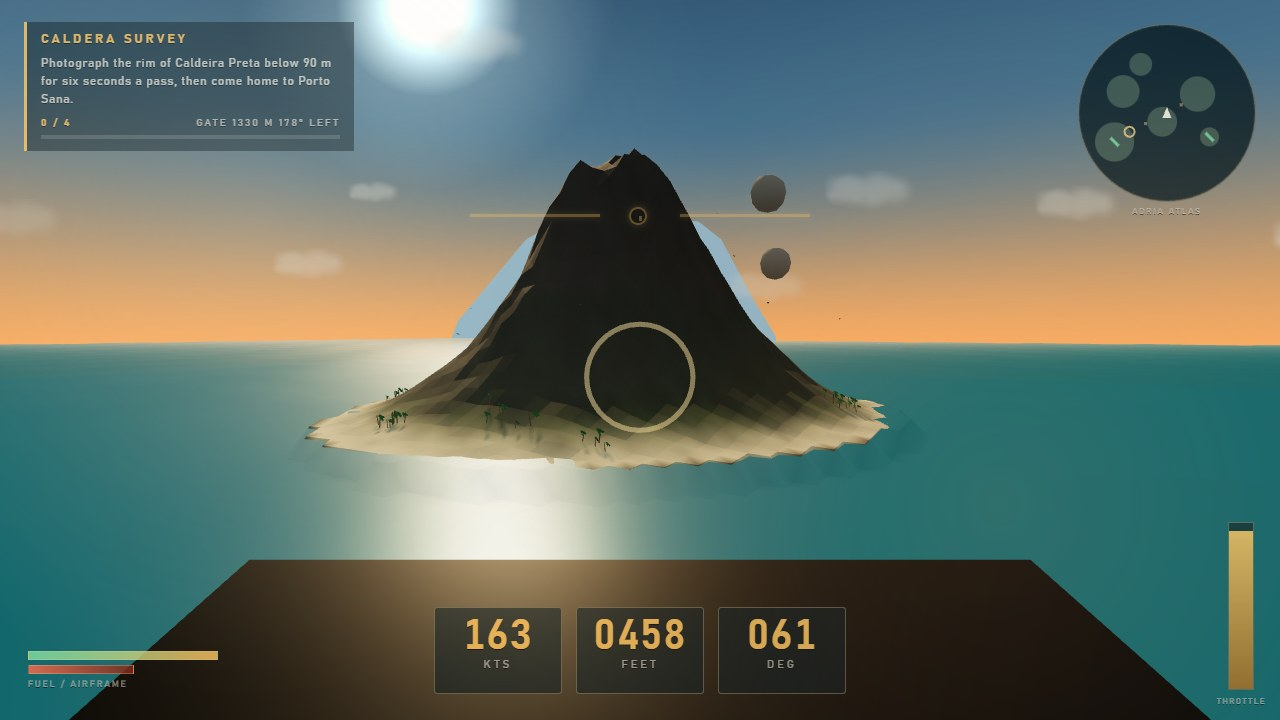
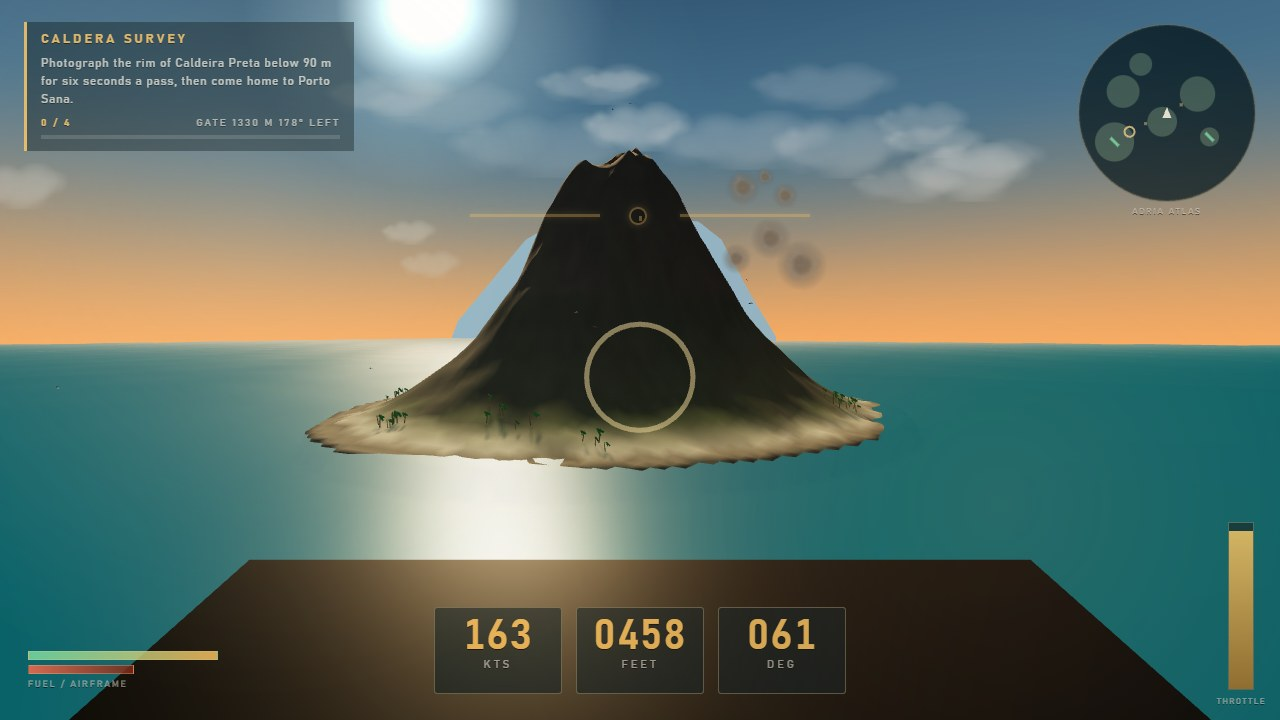
Golden-hour sea glitter, volcano cloud bank, soft flak smoke, cleaner coastline

diff --git a/game/src/game/threat.js b/game/src/game/threat.js
@@ -1,15 +1,54 @@
 // Ridge flak: puff bursts bloom ahead of the nose over the volcano and cost hull if they land close.
+// Puffs are soft billboards, so a burst reads as smoke rather than as a grey ball.
 
 import * as THREE from 'three';
-import { PLAY } from '../config.js';
 import { groundAt } from '../terrain/heightfield.js';
 
-const PUFF_MAT = new THREE.MeshStandardMaterial({ color: '#7b7369', emissive: '#2d2822', emissiveIntensity: 0.6, roughness: 1, transparent: true, opacity: 0.9 });
-const PUFF_GEO = new THREE.SphereGeometry(1, 8, 6);
+function smokeTexture() {
+  const canvas = document.createElement('canvas');
+  canvas.width = 128;
+  canvas.height = 128;
+  const ctx = canvas.getContext('2d');
+  const gradient = ctx.createRadialGradient(64, 64, 6, 64, 64, 62);
+  gradient.addColorStop(0, 'rgba(122,114,104,0.95)');
+  gradient.addColorStop(0.45, 'rgba(112,104,95,0.62)');
+  gradient.addColorStop(1, 'rgba(96,90,82,0)');
+  ctx.fillStyle = gradient;
+  ctx.fillRect(0, 0, 128, 128);
+  // A few lobes so each puff is ragged, not a clean disc.
+  for (let i = 0; i < 7; i++) {
+    const x = 30 + Math.random() * 68;
+    const y = 30 + Math.random() * 68;
+    const r = 12 + Math.random() * 22;
+    const lobe = ctx.createRadialGradient(x, y, 2, x, y, r);
+    lobe.addColorStop(0, 'rgba(126,118,108,0.5)');
+    lobe.addColorStop(1, 'rgba(110,102,93,0)');
+    ctx.fillStyle = lobe;
+    ctx.beginPath();
+    ctx.arc(x, y, r, 0, Math.PI * 2);
+    ctx.fill();
+  }
+  const tex = new THREE.CanvasTexture(canvas);
+  tex.colorSpace = THREE.SRGBColorSpace;
+  return tex;
+}
 
 export function createThreat(scene) {
   const puffs = [];
+  const texture = smokeTexture();
   let timer = 0;
+
+  function spawn(position, scale) {
+    const sprite = new THREE.Sprite(new THREE.SpriteMaterial({ map: texture, transparent: true, depthWrite: false, opacity: 0.85 }));
+    sprite.position.copy(position);
+    sprite.scale.setScalar(scale * 2.6);
+    // A tighter, brighter core so the burst has a dense heart instead of reading as a smudge.
+    const core = new THREE.Sprite(new THREE.SpriteMaterial({ map: texture, transparent: true, depthWrite: false, opacity: 0.9, color: '#e8e2d6' }));
+    core.position.copy(position);
+    core.scale.setScalar(scale * 1.15);
+    scene.add(sprite, core);
+    puffs.push({ sprite, core, life: 0, scale });
+  }
 
   return {
     puffs,
@@ -18,13 +57,16 @@ export function createThreat(scene) {
       for (let i = puffs.length - 1; i >= 0; i--) {
         const puff = puffs[i];
         puff.life += dt;
-        puff.scale += dt * 26;
-        puff.mesh.scale.setScalar(puff.scale);
-        puff.mesh.position.y += dt * 3.4;
-        puff.mesh.material.opacity = Math.max(0, 0.85 - puff.life * 0.42);
+        puff.scale += dt * 24;
+        puff.sprite.scale.setScalar(puff.scale * 2.6);
+        puff.core.scale.setScalar(puff.scale * 1.15);
+        puff.sprite.position.y += dt * 3.4;
+        puff.sprite.material.opacity = Math.max(0, 0.85 - puff.life * 0.4);
+        puff.core.material.opacity = Math.max(0, 0.9 - puff.life * 0.44);
         if (puff.life > 2.4) {
-          scene.remove(puff.mesh);
-          puff.mesh.material.dispose();
+          scene.remove(puff.sprite, puff.core);
+          puff.sprite.material.dispose();
+          puff.core.material.dispose();
           puffs.splice(i, 1);
         }
       }
@@ -38,11 +80,13 @@ export function createThreat(scene) {
       const ahead = plane.position.clone().addScaledVector(forward, 260 + Math.random() * 220);
       ahead.y = Math.max(groundAt(ahead.x, ahead.z) + 30, ahead.y + (Math.random() - 0.5) * 120);
 
-      const mesh = new THREE.Mesh(PUFF_GEO, PUFF_MAT.clone());
-      mesh.position.copy(ahead);
-      scene.add(mesh);
-      const puff = { mesh, life: 0, scale: 3 };
-      puffs.push(puff);
+      for (let i = 0; i < 3; i++) {
+        const lobe = ahead.clone();
+        lobe.x += (Math.random() - 0.5) * 40;
+        lobe.y += (Math.random() - 0.5) * 26;
+        lobe.z += (Math.random() - 0.5) * 40;
+        spawn(lobe, 5 + Math.random() * 5);
+      }
 
       const distance = ahead.distanceTo(plane.position);
       if (distance < 46) return 6;
@@ -50,14 +94,10 @@ export function createThreat(scene) {
     },
     // Drop one burst at a world point (used by the screenshot poses).
     place(position, scale = 3) {
-      const mesh = new THREE.Mesh(PUFF_GEO, PUFF_MAT.clone());
-      mesh.position.copy(position);
-      mesh.scale.setScalar(scale);
-      scene.add(mesh);
-      puffs.push({ mesh, life: 0, scale });
+      spawn(position, scale);
     },
     reset() {
-      for (const puff of puffs) scene.remove(puff.mesh);
+      for (const puff of puffs) scene.remove(puff.sprite, puff.core);
       puffs.length = 0;
     },
   };

diff --git a/game/src/render/scene.js b/game/src/render/scene.js
@@ -2,6 +2,7 @@
 
 import * as THREE from 'three';
 import { WORLD, CAMERA } from '../config.js';
+import { ISLANDS } from '../terrain/heightfield.js';
 
 export function createRenderer(canvas) {
   const renderer = new THREE.WebGLRenderer({ canvas, antialias: true, powerPreference: 'high-performance', preserveDrawingBuffer: true });
@@ -88,6 +89,8 @@ function sunSprite(inner, outer, size) {
   return sprite;
 }
 
+const VOLCANO = ISLANDS.find((island) => island.volcano) ?? { x: 0, z: 0 };
+
 export function buildSky(scene) {
   scene.add(skyDome());
 
@@ -116,6 +119,39 @@ export function buildSky(scene) {
   glow.position.copy(disc.position).multiplyScalar(0.998);
   scene.add(glow);
 
+  // Sun glitter: a long additive streak on the water, running from the middle of the
+  // archipelago out under the sun, so the sea carries a path of light instead of a flat tint.
+  const glitterCanvas = document.createElement('canvas');
+  glitterCanvas.width = 128;
+  glitterCanvas.height = 1024;
+  const gctx = glitterCanvas.getContext('2d');
+  const across = gctx.createLinearGradient(0, 0, 128, 0);
+  across.addColorStop(0, 'rgba(255,236,200,0)');
+  across.addColorStop(0.5, 'rgba(255,243,214,0.85)');
+  across.addColorStop(1, 'rgba(255,236,200,0)');
+  const along = gctx.createLinearGradient(0, 0, 0, 1024);
+  gctx.fillStyle = across;
+  gctx.fillRect(0, 0, 128, 1024);
+  gctx.globalCompositeOperation = 'destination-in';
+  along.addColorStop(0, 'rgba(0,0,0,0)');
+  along.addColorStop(0.16, 'rgba(0,0,0,0.55)');
+  along.addColorStop(0.55, 'rgba(0,0,0,0.95)');
+  along.addColorStop(0.86, 'rgba(0,0,0,0.5)');
+  along.addColorStop(1, 'rgba(0,0,0,0)');
+  gctx.fillStyle = along;
+  gctx.fillRect(0, 0, 128, 1024);
+  const glitterTex = new THREE.CanvasTexture(glitterCanvas);
+  glitterTex.colorSpace = THREE.SRGBColorSpace;
+  const glitter = new THREE.Mesh(
+    new THREE.PlaneGeometry(430, 9600),
+    new THREE.MeshBasicMaterial({ map: glitterTex, transparent: true, depthWrite: false, blending: THREE.AdditiveBlending, opacity: 0.42, fog: true })
+  );
+  const azimuth = Math.atan2(sun.position.x, sun.position.z);
+  glitter.rotation.set(-Math.PI / 2, 0, 0);
+  glitter.rotation.z = -azimuth;
+  glitter.position.set(Math.sin(azimuth) * 3200, 1.4, Math.cos(azimuth) * 3200);
+  scene.add(glitter);
+
   const tex = cloudTexture();
   const cloudMaterial = new THREE.SpriteMaterial({ map: tex, transparent: true, opacity: 0.4, depthWrite: false, blending: THREE.NormalBlending });
   const clouds = new THREE.Group();
@@ -128,6 +164,19 @@ export function buildSky(scene) {
     clouds.add(sprite);
   }
   scene.add(clouds);
+
+  // A bank of cumulus stacked against the volcano, where the survey leg goes.
+  const bankMaterial = new THREE.SpriteMaterial({ map: tex, transparent: true, opacity: 0.5, depthWrite: false, blending: THREE.NormalBlending });
+  const bank = new THREE.Group();
+  for (let i = 0; i < 16; i++) {
+    const sprite = new THREE.Sprite(bankMaterial.clone());
+    const scale = 220 + Math.random() * 260;
+    sprite.scale.set(scale, scale * 0.3, 1);
+    sprite.position.set(VOLCANO.x + (Math.random() - 0.5) * 1700, 520 + Math.random() * 420, VOLCANO.z + (Math.random() - 0.5) * 1700);
+    sprite.material.opacity = 0.12 + Math.random() * 0.16;
+    bank.add(sprite);
+  }
+  scene.add(bank);
 
   scene.fog = new THREE.Fog('#c6c2ad', WORLD.fogNear, WORLD.fogFar);
   scene.background = new THREE.Color('#8fb2c4');

diff --git a/game/src/terrain/buildIslands.js b/game/src/terrain/buildIslands.js
@@ -5,6 +5,8 @@ import { WORLD } from '../config.js';
 import { groundAt, ISLANDS, AIRSTRIPS, fbm, noise } from './heightfield.js';
 
 const SAND = new THREE.Color('#d8c79a');
+const WET = new THREE.Color('#7d7158');
+const SHOAL = new THREE.Color('#12495a');
 const MOSS = new THREE.Color('#5c6f3c');
 const JUNGLE = new THREE.Color('#334c2f');
 const BASALT = new THREE.Color('#3a3733');
@@ -13,7 +15,9 @@ const EMBER = new THREE.Color('#7a4126');
 
 function groundColor(height, slope, volcanic) {
   const c = new THREE.Color();
-  if (height < 4) c.copy(SAND);
+  if (height < 0) c.copy(SHOAL).lerp(WET, Math.max(-1, height) / -1.2 + 1);
+  else if (height < 1.6) c.copy(WET);
+  else if (height < 6) c.copy(WET).lerp(SAND, (height - 1.6) / 4.4);
   else if (height < 26) c.copy(SAND).lerp(MOSS, (height - 4) / 22);
   else if (height < 200) c.copy(MOSS).lerp(JUNGLE, Math.min(1, (height - 26) / 120));
   else if (volcanic) c.copy(ASH).lerp(BASALT, Math.min(1, (height - 200) / 260));
@@ -50,7 +54,7 @@ export function buildTerrain(scene) {
   geometry.setAttribute('color', new THREE.BufferAttribute(colors, 3));
   geometry.computeVertexNormals();
 
-  const material = new THREE.MeshStandardMaterial({ vertexColors: true, roughness: 0.94, metalness: 0.02, flatShading: true });
+  const material = new THREE.MeshStandardMaterial({ vertexColors: true, roughness: 0.94, metalness: 0.02 });
   const mesh = new THREE.Mesh(geometry, material);
   mesh.receiveShadow = true;
   mesh.castShadow = false;
@@ -71,7 +75,7 @@ function buildSea() {
     roughness: 0.34,
     metalness: 0.3,
     transparent: true,
-    opacity: 0.93,
+    opacity: 0.97,
   });
   const sea = new THREE.Mesh(geo, material);
   sea.position.y = 0.4;

diff --git a/game/src/shots.js b/game/src/shots.js
@@ -69,7 +69,13 @@ export const SHOTS = {
       const side = i % 2 === 0 ? 1 : -1;
       near.x += side * (170 + i * 40);
       near.y += 46 + (i % 4) * 46;
-      bursts.push({ at: near, size: 10 + (i % 3) * 4 });
+      for (let c = 0; c < 3; c++) {
+        const cluster = near.clone();
+        cluster.x += (c - 1) * 26 + (i % 2 ? 9 : -9);
+        cluster.y += (c % 2) * 14;
+        cluster.z += (c - 1) * 12;
+        bursts.push({ at: cluster, size: 7 + (c + i) % 3 * 3 });
+      }
     }
     const trail = [];
     for (let i = 0; i < 7; i++) {

diff --git a/game/src/config.js b/game/src/config.js
@@ -3,7 +3,7 @@
 export const WORLD = {
   size: 5200,          // metres across the archipelago
   seaLevel: 0,
-  grid: 200,           // heightfield resolution per side
+  grid: 320,           // heightfield resolution per side
   maxHeight: 620,
   fogNear: 1500,
   fogFar: 9600,
